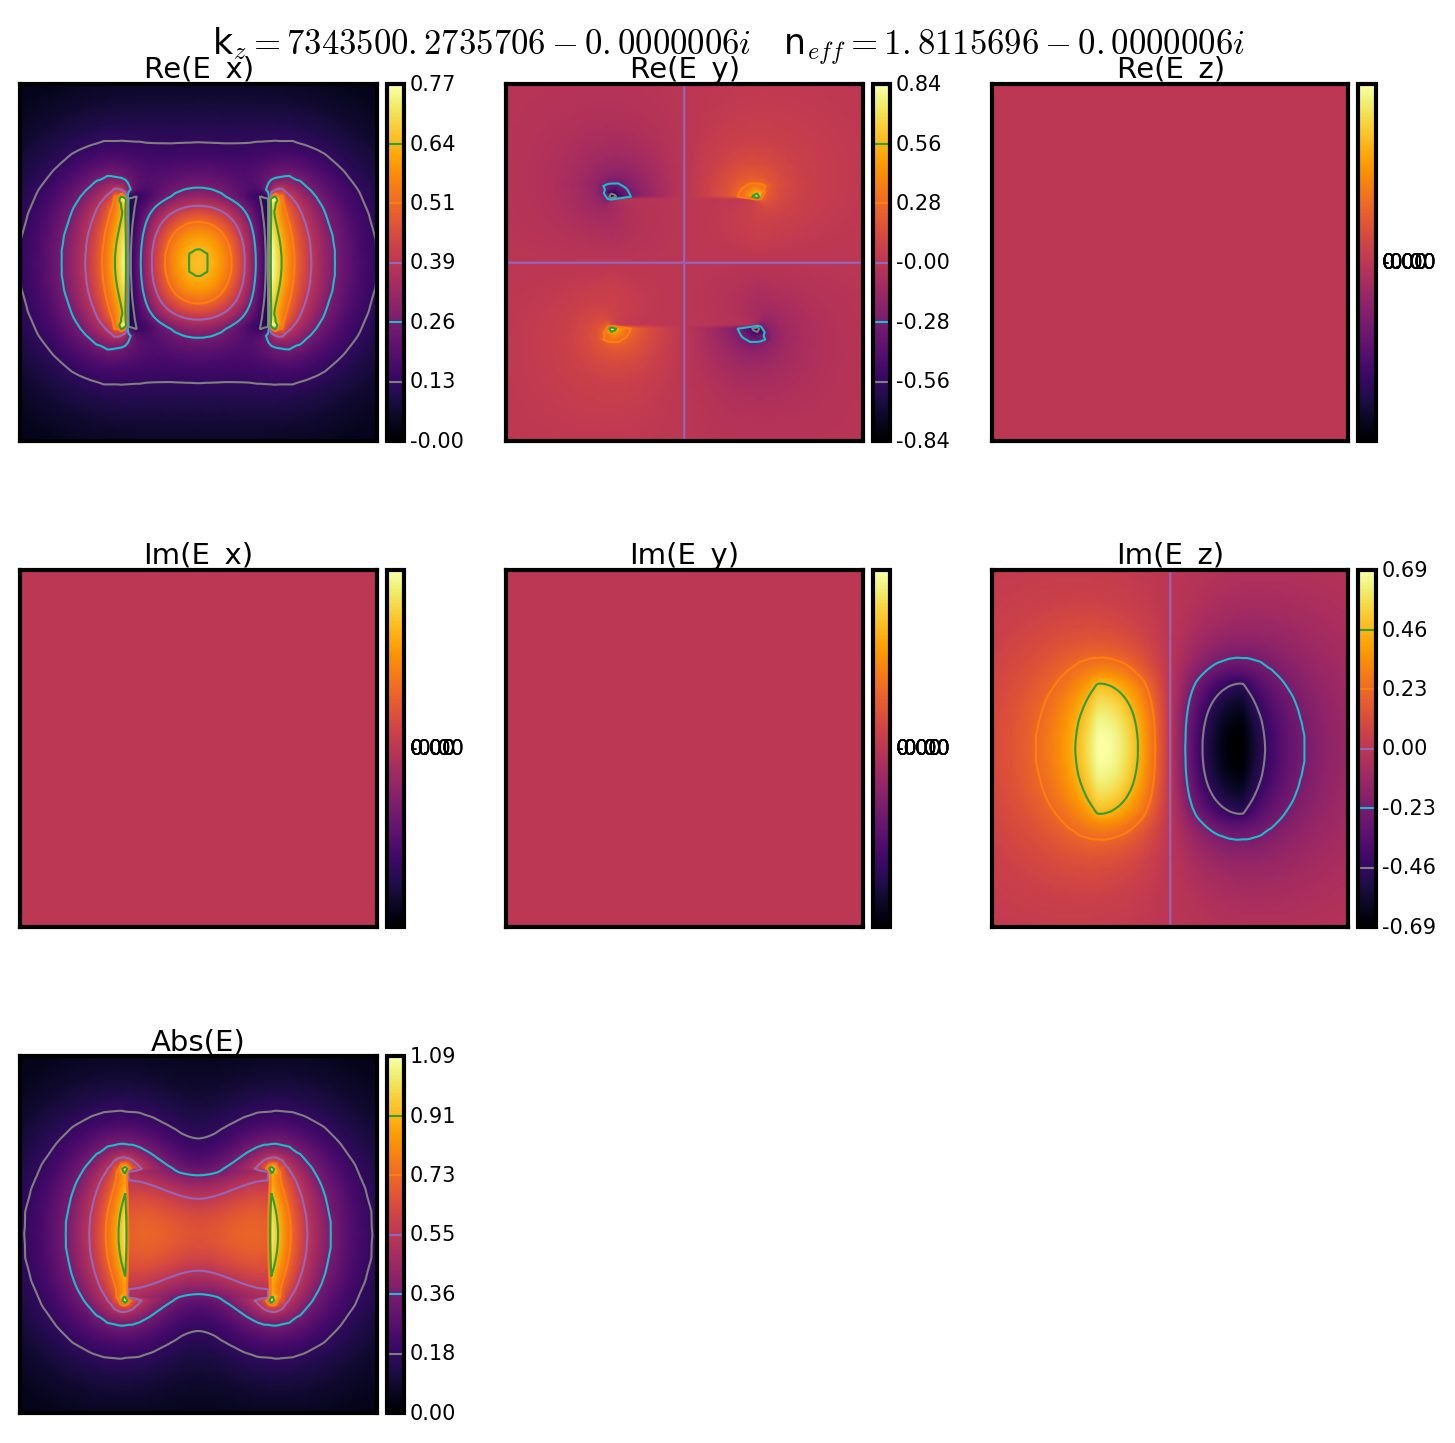
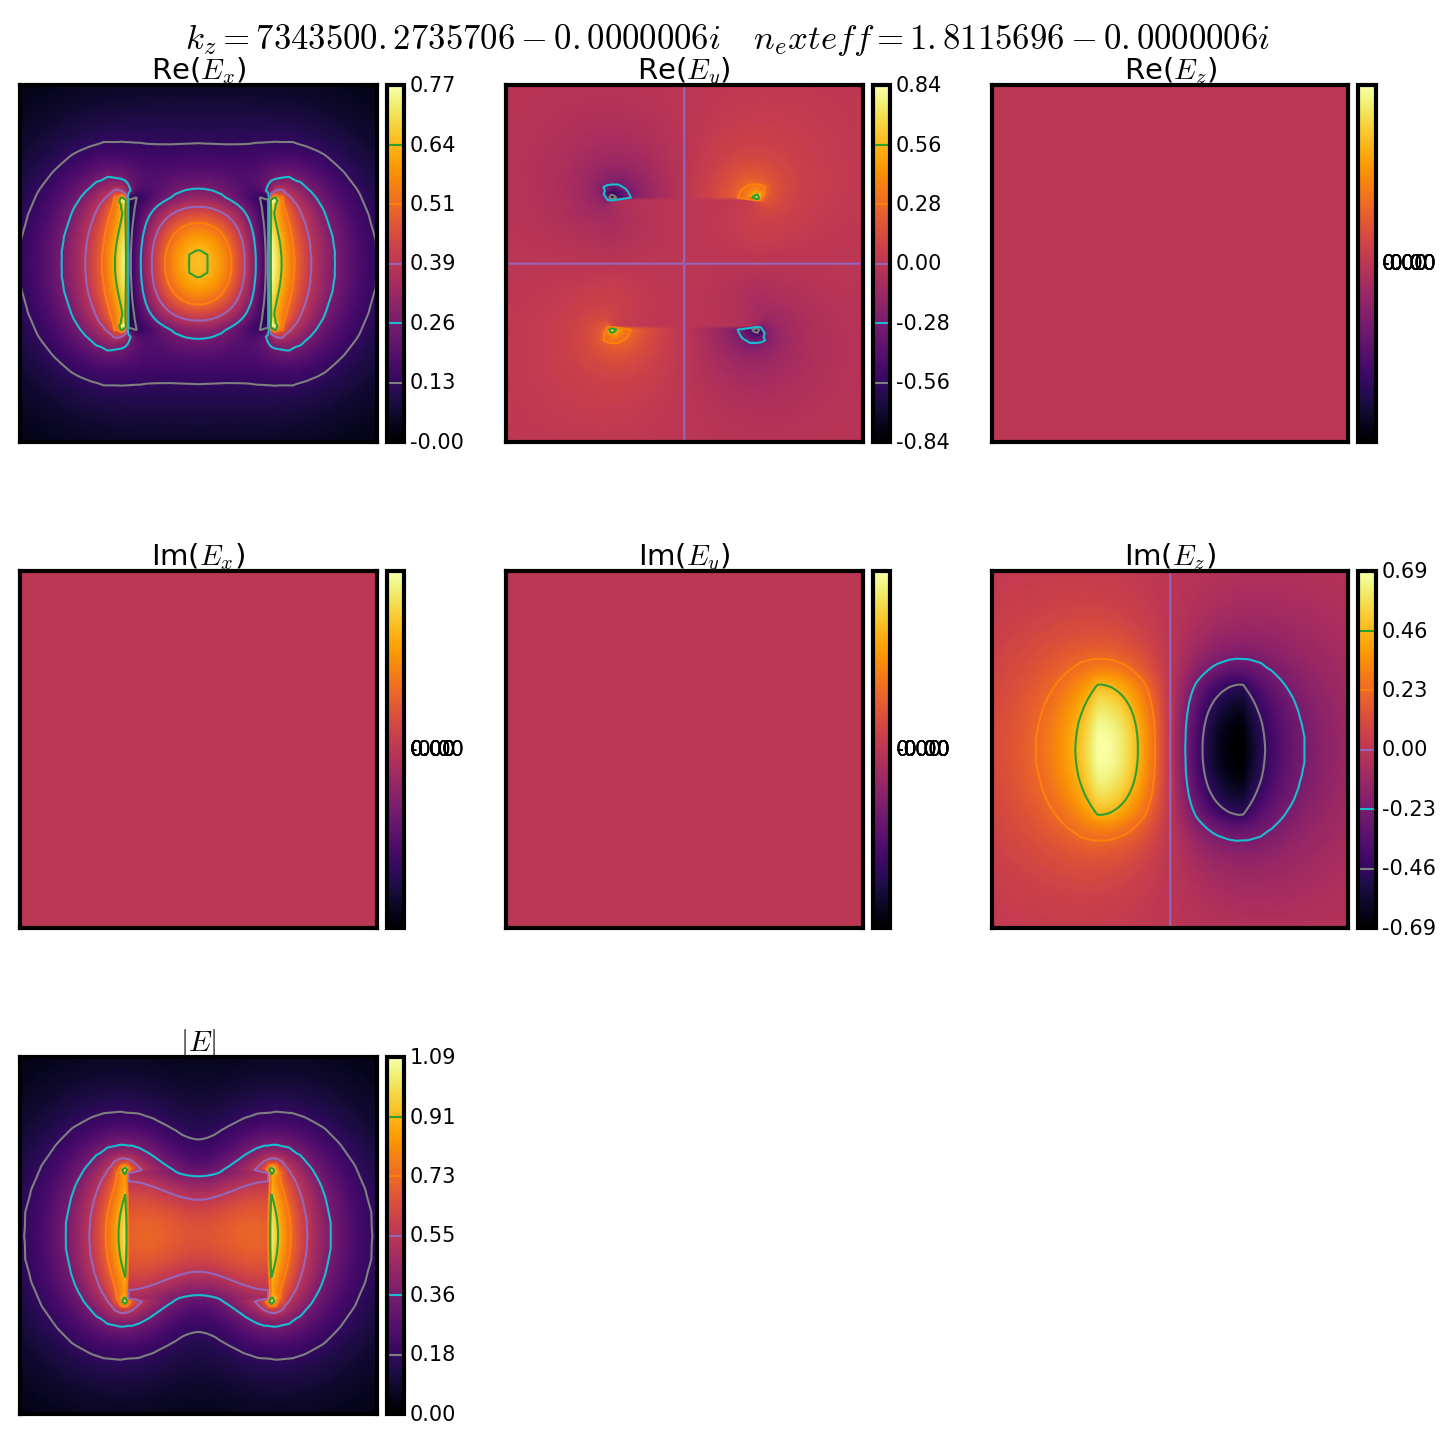
Missed a couple of plotting label strings in last commit.

diff --git a/backend/plotting.py b/backend/plotting.py
@@ -642,11 +642,11 @@ def plt_mode_fields(sim_wguide, ivals=None, n_points=500, quiver_steps=50,
             fig.set_tight_layout(True)
             n_str = ''
             if np.imag(sim_wguide.Eig_values[ival]) < 0:
-                k_str = r'$\Omega/2\pi = %(re_k)f6 %(im_k)f6 i$ GHz'% \
+                k_str = '$\Omega/2\pi = %(re_k)f6 %(im_k)f6 i$ GHz'% \
                     {'re_k' : np.real(sim_wguide.Eig_values[ival]*1e-9),
                     'im_k' : np.imag(sim_wguide.Eig_values[ival]*1e-9)}
             else:
-                k_str = r'$\Omega/2\pi = %(re_k)f6 + %(im_k)f6 i$ GHz'% \
+                k_str = '$\Omega/2\pi = %(re_k)f6 + %(im_k)f6 i$ GHz'% \
                     {'re_k' : np.real(sim_wguide.Eig_values[ival]*1e-9),
                     'im_k' : np.imag(sim_wguide.Eig_values[ival]*1e-9)}
             plt.suptitle(k_str + '   ' + n_str, fontsize=title_font)
